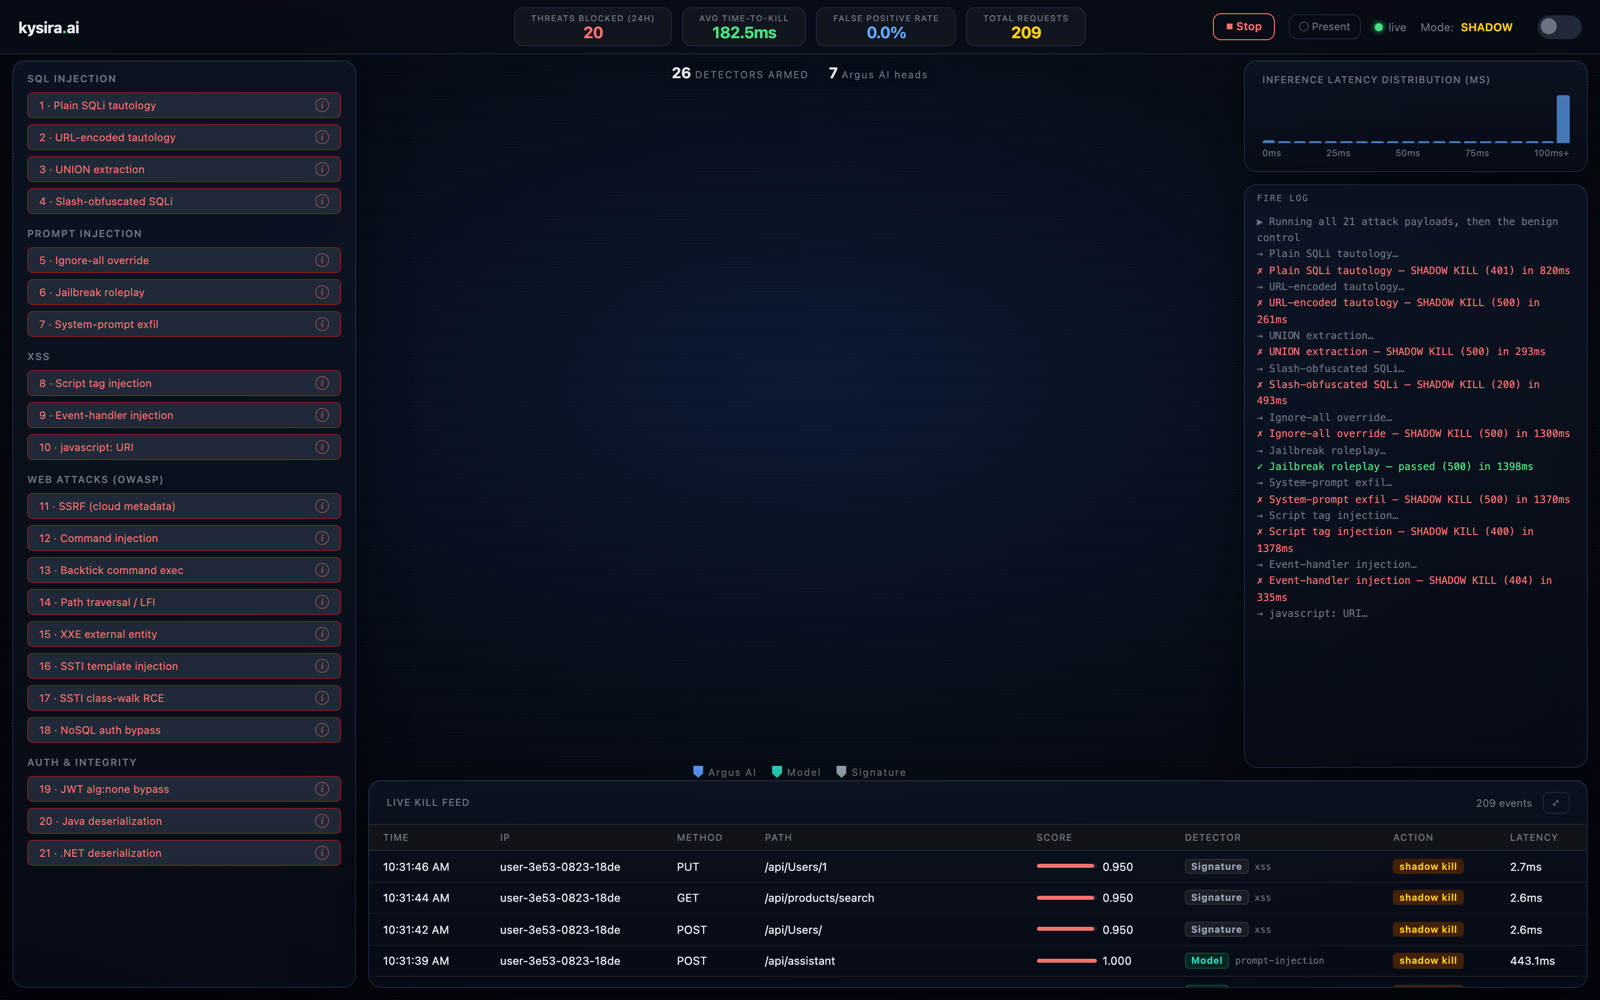
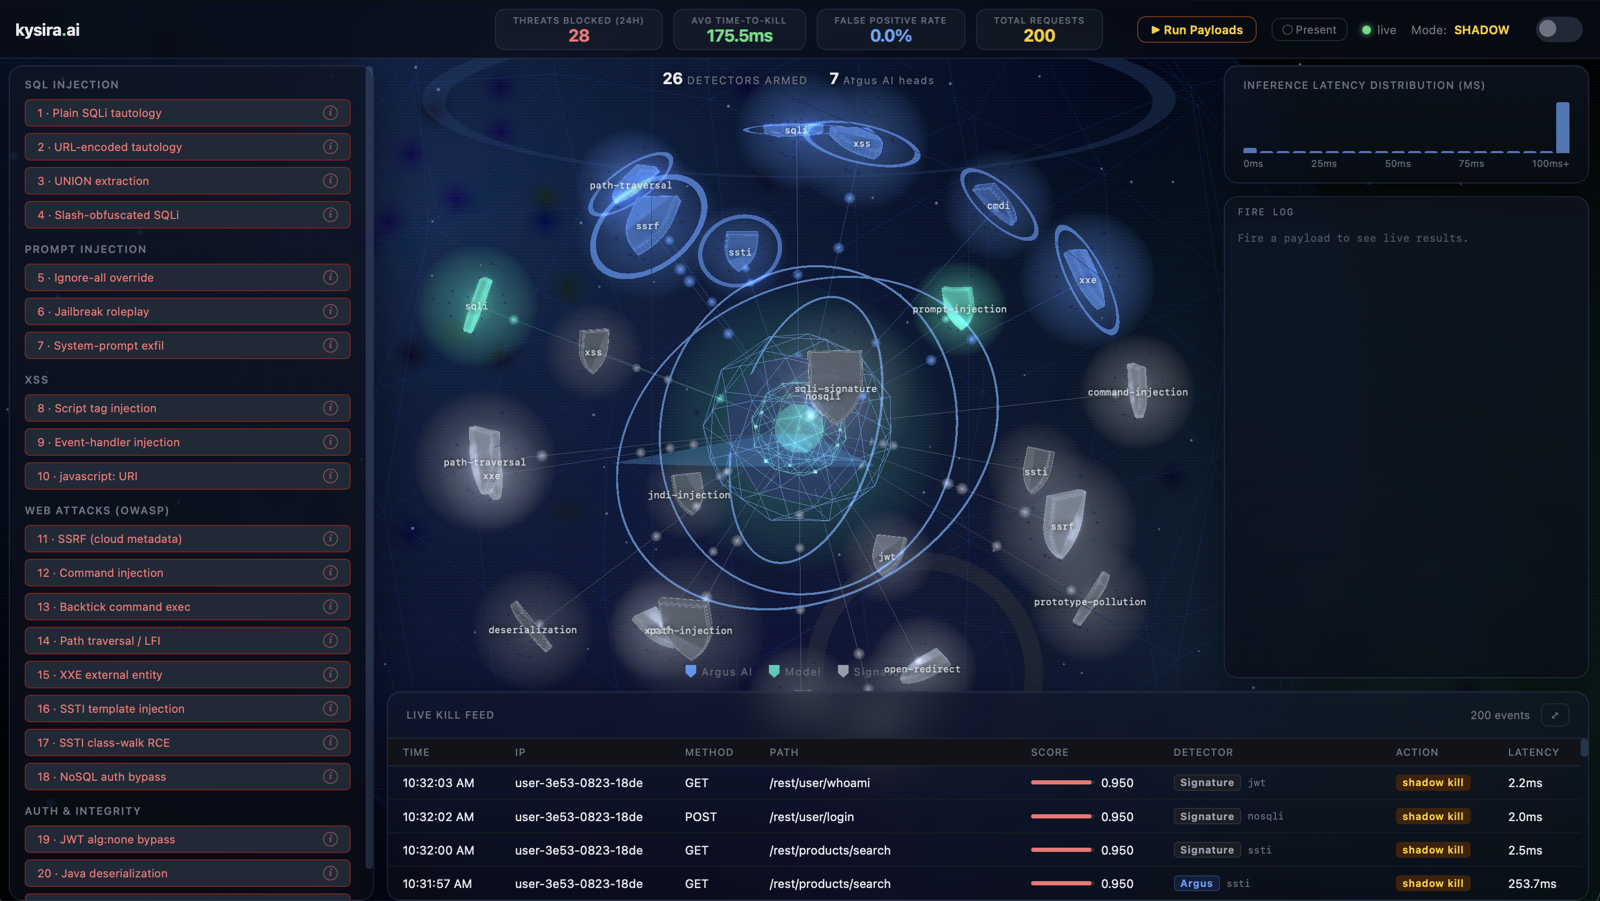
Swap live monitor screenshot for the attack-surface constellation view

diff --git a/index.html b/index.html
@@ -171,7 +171,7 @@
     </p>
 
     <figure class="showcase">
-      <img src="assets/images/screenshots/live-monitor.png" alt="Kysira live threat monitor: 26 detectors armed, a fire log showing SQL injection, prompt injection and XSS payloads being shadow-killed, and a live kill feed with per-request scores and latencies" width="1600" height="1000" />
+      <img src="assets/images/screenshots/live-monitor.png" alt="Kysira live threat monitor: 26 detectors armed, an attack-surface constellation of detector types (SQLi, XSS, SSRF, prompt injection, command injection, and more), and a live kill feed with per-request scores and latencies" width="1600" height="901" />
       <figcaption>live.kysira.ai — 26 detectors armed, payloads shadow-killed with score, detector, and latency for every request</figcaption>
     </figure>
 
